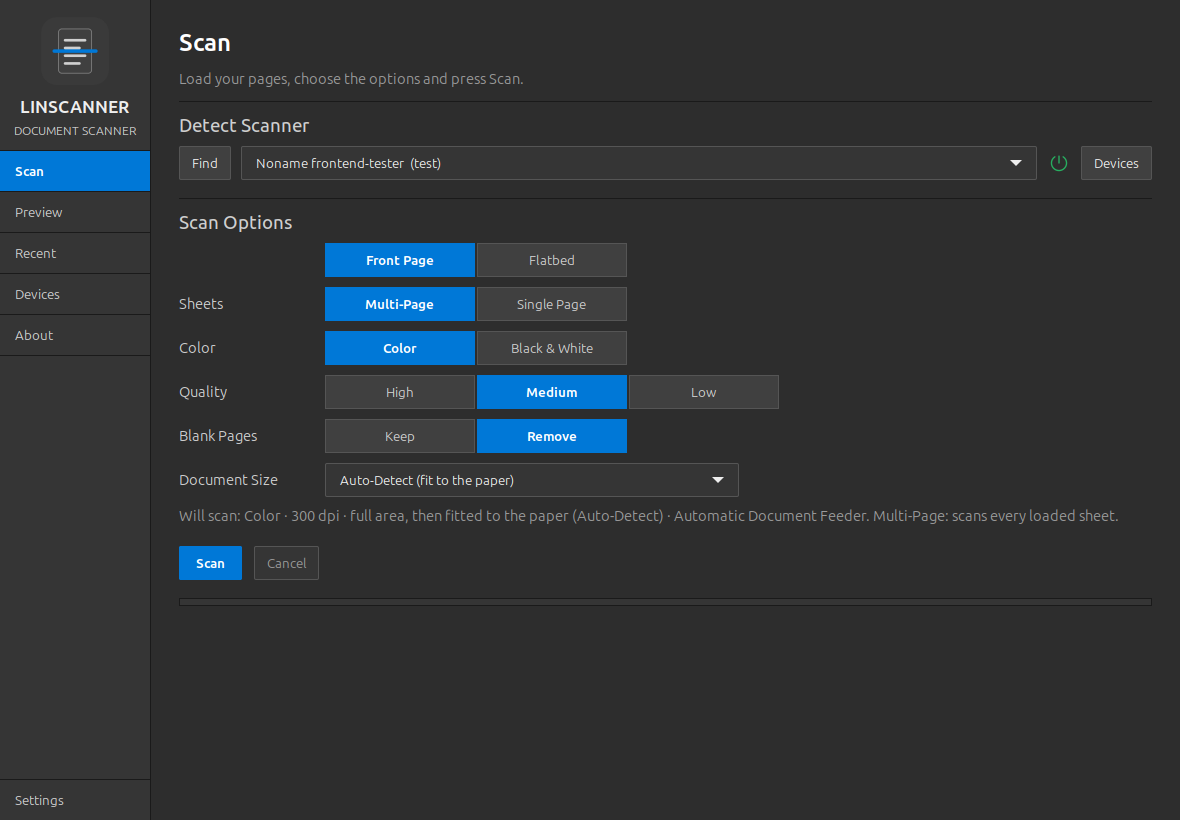
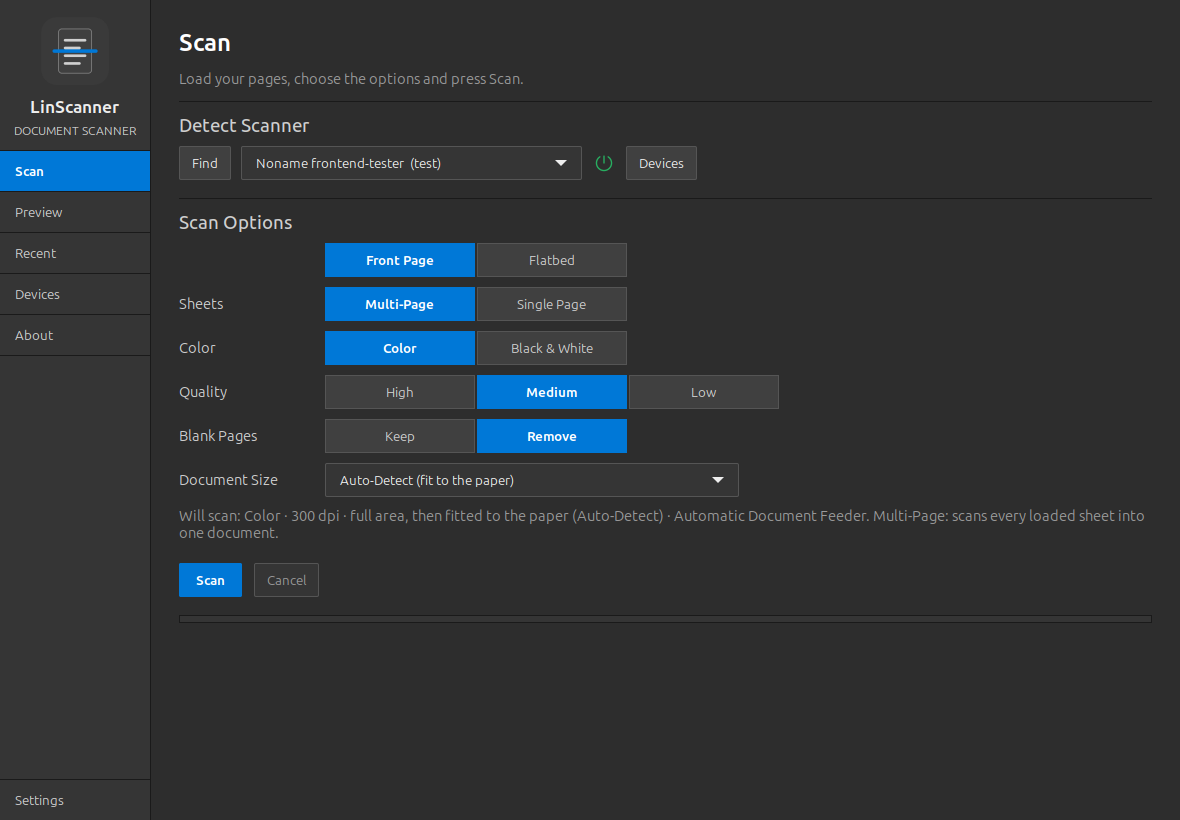
feat(linscanner): 0.3.5: the name LinScanner; half-width scanner field
- The program name is shown as "LinScanner": the window title, sidebar
  logo, About page, menu entry, messages, docs and LICENSE. Technical
  names stay lowercase: folders, the command, WM_CLASS, config and data
  paths, the logger.
- Scan page: the scanner list, its power mark and Devices take half the
  width, like Document Size.
- Handoff and changelogs updated. VERSION 0.3.5. Tests: 114 pass.

diff --git a/src/pages/page_about.py b/src/pages/page_about.py
@@ -1,6 +1,6 @@
 """
 About Page
-What linscanner is, privacy and licence in brief, where your files are,
+What LinScanner is, privacy and licence in brief, where your files are,
 handy shortcuts, system versions and credits. (Signature-font credits are
 kept in the backlog, docs/FOLLOW-UP.md #33, as requested.)
 """
@@ -37,7 +37,7 @@ def tilde(path):
 
 
 def user_paths():
-    """(what, path) for every place linscanner keeps your data"""
+    """(what, path) for every place LinScanner keeps your data"""
     from modules.manager_settings import default_path
     from utils.util_fonts import user_fonts_dir
     from utils.util_logging import log_dir
@@ -50,12 +50,12 @@ def user_paths():
         ("Fonts you added", user_fonts_dir()),
         ("Recent documents list", os.path.join(data, "recent.json")),
         ("Logs (kept 14 days)", log_dir()),
-        ("Scans in progress", "/tmp/linscanner-*/ (deleted when linscanner closes)"),
+        ("Scans in progress", "/tmp/linscanner-*/ (deleted when LinScanner closes)"),
     ]
 
 
 class AboutPage(BasePage):
-    """About linscanner"""
+    """About LinScanner"""
 
     def _text(self, card, text, css="secondary", selectable=False):
         """Add a wrapped label to a card"""
@@ -73,7 +73,7 @@ class AboutPage(BasePage):
 
     def build_content(self):
         """All About sections"""
-        self.add_title("linscanner", f"Version {read_version()} · a document scanner for Linux")
+        self.add_title("LinScanner", f"Version {read_version()} · a document scanner for Linux")
 
         card = self.add_card("What it is")
         self._text(
@@ -91,7 +91,7 @@ class AboutPage(BasePage):
         card = self.add_card("Compatibility")
         self._text(
             card,
-            "linscanner is ever evolving. Each release adds and verifies more devices and systems, and "
+            "LinScanner is ever evolving. Each release adds and verifies more devices and systems, and "
             "reports of what works (or doesn't) on your hardware help it grow. What it works with today:",
             "muted",
         )
@@ -134,7 +134,7 @@ class AboutPage(BasePage):
         card = self.add_card("Privacy")
         self._text(
             card,
-            "Everything happens on this computer. linscanner never sends your scans, documents, "
+            "Everything happens on this computer. LinScanner never sends your scans, documents, "
             "signatures, settings or any other information to anyone: no cloud, no accounts, no "
             "telemetry, no network scanner search. OCR runs locally. Files leave this computer only "
             "if you copy or send them yourself.",
@@ -143,10 +143,10 @@ class AboutPage(BasePage):
         card = self.add_card("Licence")
         self._text(
             card,
-            "linscanner Community License (Noncommercial) 1.0. You're welcome to use it free of "
+            "LinScanner Community License (Noncommercial) 1.0. You're welcome to use it free of "
             "charge, and to copy, modify and share it for any noncommercial purpose. Commercial use "
             "needs written permission from MensuraMedia; we're happy to talk. The components "
-            "linscanner builds on keep their own licences.",
+            "LinScanner builds on keep their own licences.",
         )
         self._text(card, f"Full text: {tilde(os.path.join(APP_ROOT, 'LICENSE'))}", "muted", selectable=True)
 
@@ -177,7 +177,7 @@ class AboutPage(BasePage):
         self._grid(
             card,
             [
-                ("linscanner", read_version()),
+                ("LinScanner", read_version()),
                 ("Scanning (SANE)", sane_version()),
                 ("Python", platform.python_version()),
                 ("GTK", gtk),

diff --git a/src/main.py b/src/main.py
@@ -1,6 +1,6 @@
 #!/usr/bin/env python3
 """
-linscanner
+LinScanner
 Universal document scanner for Linux (SANE). Entry point.
 """
 
@@ -15,10 +15,10 @@ gi.require_version("Gtk", "3.0")
 gi.require_version("Gdk", "3.0")
 from gi.repository import Gdk, GLib, Gtk  # noqa: E402
 
-# Identify the app to the desktop before any window exists: WM_CLASS "linscanner"
+# Identify the app to the desktop before any window exists: WM_CLASS "LinScanner"
 # matches the menu entry (StartupWMClass), so the panel and Alt+Tab show its icon.
 GLib.set_prgname("linscanner")
-GLib.set_application_name("linscanner")
+GLib.set_application_name("LinScanner")
 Gdk.set_program_class("linscanner")
 
 from backends.backend_escl import EsclBackend  # noqa: E402
@@ -40,7 +40,7 @@ from utils.util_paths import read_version  # noqa: E402
 def parse_args(argv):
     """Parse command-line options (--version, --test-scanner, --page, --quit-after, --debug)"""
     p = argparse.ArgumentParser(prog="linscanner", description="Universal document scanner (SANE)")
-    p.add_argument("--version", action="version", version=f"linscanner {read_version()}")
+    p.add_argument("--version", action="version", version=f"LinScanner {read_version()}")
     p.add_argument(
         "--test-scanner", action="store_true", help="use only SANE's virtual test scanner (no hardware)"
     )
@@ -61,7 +61,7 @@ def main(argv=None):
     install_excepthook()
     log = get_logger("app")
     log.info(
-        "===== linscanner start (args: %s) =====", " ".join(sys.argv[1:] if argv is None else argv) or "none"
+        "===== LinScanner start (args: %s) =====", " ".join(sys.argv[1:] if argv is None else argv) or "none"
     )
     for line in system_info().splitlines():
         log.info("  %s", line)
@@ -75,7 +75,7 @@ def main(argv=None):
         backend = SaneBackend(only_backends=["test"])
     else:
         settings = SettingsManager()
-        backend = None  # production: SANE + linscanner's eSCL client + USB probe
+        backend = None  # production: SANE + LinScanner's eSCL client + USB probe
 
     theme = ThemeApplicator()
     theme.apply_theme(get_theme(settings.get("theme")))
@@ -107,7 +107,7 @@ def main(argv=None):
         Gtk.main()
     finally:
         scan.cleanup()  # remove this session's temporary scan images
-        log.info("===== linscanner exit (%d page(s) in session) =====", len(scan.pages))
+        log.info("===== LinScanner exit (%d page(s) in session) =====", len(scan.pages))
     return 0
 
 

diff --git a/src/backends/backend_sane.py b/src/backends/backend_sane.py
@@ -36,8 +36,8 @@ from utils.util_logging import get_logger
 log = get_logger("sane")
 
 # A scanner is a single-user device: two scanimage processes opening it at once
-# makes one fail with "Device busy". Every SANE call in linscanner (listing,
-# options, status, firmware, scans) takes this lock, so linscanner never competes
+# makes one fail with "Device busy". Every SANE call in LinScanner (listing,
+# options, status, firmware, scans) takes this lock, so LinScanner never competes
 # with itself. Re-entrant so a scan can call helpers that also lock.
 DEVICE_LOCK = threading.RLock()
 
@@ -64,7 +64,7 @@ def usb_only_config(folder):
         with open(dll, "w") as f:
             for ln in lines:
                 off = ln.strip() in NETWORK_ONLY_DRIVERS
-                f.write(("# linscanner USB-only: " + ln if off else ln) + "\n")
+                f.write(("# LinScanner USB-only: " + ln if off else ln) + "\n")
     for name in NET_LINE_CONFIGS:
         path = os.path.join(folder, name)
         if os.path.exists(path):
@@ -73,15 +73,15 @@ def usb_only_config(folder):
             with open(path, "w") as f:
                 for ln in lines:
                     off = re.match(r"\s*net\b", ln) is not None
-                    f.write(("# linscanner USB-only: " + ln if off else ln) + "\n")
+                    f.write(("# LinScanner USB-only: " + ln if off else ln) + "\n")
     with open(os.path.join(folder, "pixma.conf"), "a") as f:
-        f.write("\n# linscanner USB-only\nnetworking=no\n")
+        f.write("\n# LinScanner USB-only\nnetworking=no\n")
     refresh_airscan_devices(folder)
 
 
 def refresh_airscan_devices(folder):
     """airscan.conf with discovery off, listing only IPP-over-USB devices on 127.0.0.1"""
-    lines = ["# written by linscanner: USB only, no network discovery", "[devices]"]
+    lines = ["# written by LinScanner: USB only, no network discovery", "[devices]"]
     for i, url in enumerate(ipp_usb_urls(), 1):
         lines.append(f'"IPP-USB scanner {i}" = {url}, eSCL')
     lines += ["", "[options]", "discovery = disable", "ws-discovery = off", ""]

diff --git a/src/pages/page_scan.py b/src/pages/page_scan.py
@@ -43,7 +43,13 @@ class ScanPage(BasePage):
         row.pack_start(self.refresh_btn, False, False, 0)
         self.device_combo = Gtk.ComboBoxText()
         self.device_combo.connect("changed", self.on_device_changed)
-        row.pack_start(self.device_combo, True, True, 0)
+        # the scanner list, its power mark and Devices take half the width (like Document Size)
+        half = Gtk.Box(homogeneous=True)
+        scanner_box = Gtk.Box(spacing=10)
+        scanner_box.pack_start(self.device_combo, True, True, 0)
+        half.pack_start(scanner_box, True, True, 0)
+        half.pack_start(Gtk.Box(), True, True, 0)
+        row.pack_start(half, True, True, 0)
         # power mark after the scanner name: spinner while looking, green when connected, red when not
         theme = getattr(self.ctx.theme, "current_theme", None)
         self.mark = Gtk.Stack()
@@ -56,12 +62,12 @@ class ScanPage(BasePage):
         self.power_off_icon = icon_image("power", 22, getattr(theme, "error", None) or "#e8555d")
         self.mark.add_named(self.power_off_icon, "off")
         self.mark.add_named(Gtk.Box(), "none")
-        row.pack_start(self.mark, False, False, 0)
+        scanner_box.pack_start(self.mark, False, False, 0)  # right after the scanner name
         self.power_state = "none"
         info_btn = Gtk.Button(label="Devices")
         info_btn.set_tooltip_text("Every scanner found, with its connection and capabilities")
         info_btn.connect("clicked", lambda *_: self.ctx.nav.navigate_to("devices"))
-        row.pack_start(info_btn, False, False, 0)
+        scanner_box.pack_start(info_btn, False, False, 0)
         card.pack_start(row, False, False, 0)
         self.device_status = self.label("", "status-error", wrap=True)
         self.device_status.set_no_show_all(True)  # only shown when the scanner can't be used

diff --git a/src/pages/page_recent.py b/src/pages/page_recent.py
@@ -1,13 +1,13 @@
 """
 Recent Page
-Documents saved with linscanner, as a table sorted by date (newest first):
+Documents saved with LinScanner, as a table sorted by date (newest first):
 
   Date saved | [folder] Folder | File name [document] | Pages | Format | [trash]
 
 - folder icon: opens the system file manager at that folder (the file is
   highlighted when the file manager supports it)
 - document icon (or double-click / Enter on a row): opens the document in
-  linscanner (Preview + Quick Edit)
+  LinScanner (Preview + Quick Edit)
 - trash icon: removes the entry from the list (the file is not touched)
 - Clear: All, or entries older than 5 / 10 / 20 / 30 / 60 / 90 days
 
@@ -112,7 +112,7 @@ class RecentPage(BasePage):
         self._add_icon_column(C_FOLDER_ICON, "open_folder", "Open the folder in your file manager")
         self._add_text_column("Folder", C_FOLDER, 260, expand=True, ellipsize=Pango.EllipsizeMode.MIDDLE)
         self._add_text_column("File name", C_NAME, 250, sort=C_NAME, ellipsize=Pango.EllipsizeMode.END)
-        self._add_icon_column(C_DOC_ICON, "open_document", "Open in linscanner (Preview and Quick Edit)")
+        self._add_icon_column(C_DOC_ICON, "open_document", "Open in LinScanner (Preview and Quick Edit)")
         self._add_text_column("Pages", C_PAGES, 60, xalign=1.0)
         self._add_text_column("Format", C_FORMAT, 70)
         self._add_icon_column(C_TRASH, "forget", "Remove from this list (the file is not touched)")

diff --git a/src/backends/backend_escl.py b/src/backends/backend_escl.py
@@ -1,6 +1,6 @@
 """
 Direct eSCL Backend
-linscanner's own driverless client for eSCL (AirScan / Mopria), used when SANE
+LinScanner's own driverless client for eSCL (AirScan / Mopria), used when SANE
 can't reach a scanner that speaks eSCL. Covers:
   - IPP-over-USB devices (USB class 07/01/04) exposed by ipp-usb on
     http://127.0.0.1:60000+ (loopback), and
@@ -34,7 +34,7 @@ NS = {
     "scan": "http://schemas.hp.com/imaging/escl/2011/05/03",
     "pwg": "http://www.pwg.org/schemas/2010/12/sm",
 }
-# eSCL colour modes <-> the SANE-style names linscanner's mapping understands
+# eSCL colour modes <-> the SANE-style names LinScanner's mapping understands
 MODE_TO_NAME = {
     "RGB24": "Color",
     "RGB48": "Color",
@@ -43,7 +43,7 @@ MODE_TO_NAME = {
     "BlackAndWhite1": "Lineart",
 }
 NAME_TO_MODE = {"Color": "RGB24", "Gray": "Grayscale8", "Lineart": "BlackAndWhite1"}
-# eSCL AdfState / State -> linscanner error codes (research §2 / SANE escl mapping)
+# eSCL AdfState / State -> LinScanner error codes (research §2 / SANE escl mapping)
 STATUS_CODES = {
     "ScannerAdfEmpty": "no_docs",
     "ScannerAdfJam": "jammed",

diff --git a/src/modules/manager_connection.py b/src/modules/manager_connection.py
@@ -8,7 +8,7 @@ Heuristic, multi-method scanner connection (docs/research/connection-methods.md)
      A1 open-source SANE driver (USB)      e.g. epsonds, pixma, genesys
      A3 vendor SANE driver                 e.g. epsonscan2, hpaio, brother*
      B2 driverless eSCL over IPP-USB       SANE airscan/escl on 127.0.0.1
-     D1 linscanner's own eSCL client       backend_escl (USB or network)
+     D1 LinScanner's own eSCL client       backend_escl (USB or network)
      B1 driverless network eSCL / WSD      SANE airscan/escl
      C1 remote SANE (saned)                SANE net
      T  SANE virtual test scanner
@@ -33,7 +33,7 @@ METHOD_LABELS = {
     "A1": "Open-source SANE driver",
     "A3": "Vendor SANE driver",
     "B2": "Driverless eSCL over USB (ipp-usb)",
-    "D1": "linscanner eSCL client",
+    "D1": "LinScanner eSCL client",
     "B1": "Driverless network scanning (eSCL/WSD)",
     "C1": "Remote SANE (saned)",
     "T": "SANE virtual test scanner",

diff --git a/src/modules/manager_documents.py b/src/modules/manager_documents.py
@@ -1,6 +1,6 @@
 """
 Documents Manager
-- Recent documents: every file linscanner saves is remembered (newest first)
+- Recent documents: every file LinScanner saves is remembered (newest first)
   in ~/.local/share/linscanner/recent.json, for the Recent page. Only the
   path, time, page count and format are stored; the list stays on this
   computer.
@@ -95,7 +95,7 @@ def open_document(path, out_dir):
     frame by frame. Raises ValueError with a plain message on failure."""
     ext = os.path.splitext(path)[1].lower()
     if ext not in OPENABLE:
-        raise ValueError("linscanner can open PDF, PNG, JPEG and TIFF files.")
+        raise ValueError("LinScanner can open PDF, PNG, JPEG and TIFF files.")
     if not os.path.exists(path):
         raise ValueError("The file isn't there any more. It may have been moved or deleted.")
     stamp = int(time.time() * 1000)

diff --git a/src/ui/app_window.py b/src/ui/app_window.py
@@ -18,7 +18,7 @@ ICON_SIZES = (16, 24, 32, 48, 64, 128, 256)
 
 
 def set_app_icon(window=None):
-    """The linscanner icon in several sizes, for every window (panel, Alt+Tab, dialogs)"""
+    """The LinScanner icon in several sizes, for every window (panel, Alt+Tab, dialogs)"""
     from gi.repository import GdkPixbuf, GLib
 
     try:
@@ -36,7 +36,7 @@ class AppWindow(Gtk.Window):
 
     def __init__(self, ctx):
         """Window with sidebar and content area; registers itself as dialog parent"""
-        super().__init__(title="linscanner")
+        super().__init__(title="LinScanner")
         ctx.window = self
         self.set_default_size(Layout.dimensions.WINDOW_DEFAULT_WIDTH, Layout.dimensions.WINDOW_DEFAULT_HEIGHT)
         self.set_position(Gtk.WindowPosition.CENTER)

diff --git a/src/config/config_scan.py b/src/config/config_scan.py
@@ -7,7 +7,7 @@ is scanner-independent; backends map these onto what a device supports.
 # Network scanning (Wi-Fi / Ethernet) is not supported at this time: only
 # cable-connected (USB) scanners are. With this off, no network discovery is
 # done at all: SANE drivers get a private config with their network discovery
-# disabled, and linscanner's eSCL client only talks to ipp-usb on 127.0.0.1.
+# disabled, and LinScanner's eSCL client only talks to ipp-usb on 127.0.0.1.
 NETWORK_SCANNING = False
 
 # Colour choices shown to the user -> SANE mode names to look for, in order.

diff --git a/src/pages/page_devices.py b/src/pages/page_devices.py
@@ -40,7 +40,7 @@ class DevicesPage(BasePage):
         """Title, check-again button, summary line and the device sections"""
         self.add_title(
             "Scan Devices Found",
-            "Scanners linscanner can see, how it reaches each one (in fallback order), and what they can do.",
+            "Scanners LinScanner can see, how it reaches each one (in fallback order), and what they can do.",
         )
         row = Gtk.Box(spacing=10)
         self.check_btn = Gtk.Button(label="Check for devices again")

diff --git a/src/pages/page_settings.py b/src/pages/page_settings.py
@@ -80,7 +80,7 @@ class SettingsPage(BasePage):
         row.pack_start(self.label("Not Supported", "muted"), False, False, 0)
         card.pack_start(row, False, False, 0)
         desc = self.label(
-            "Only scanners connected by USB cable are supported at this time. linscanner does "
+            "Only scanners connected by USB cable are supported at this time. LinScanner does "
             "not search the network for scanners.",
             "muted",
             wrap=True,
